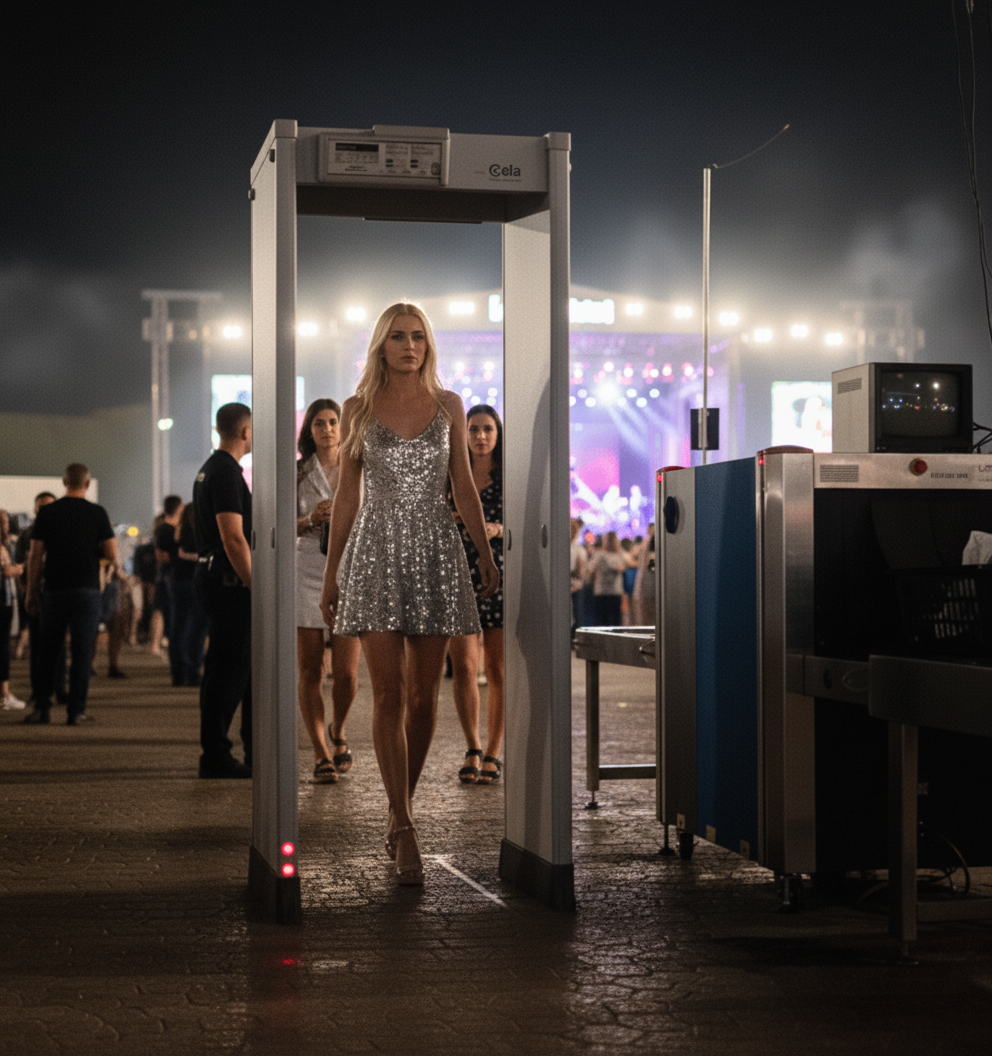
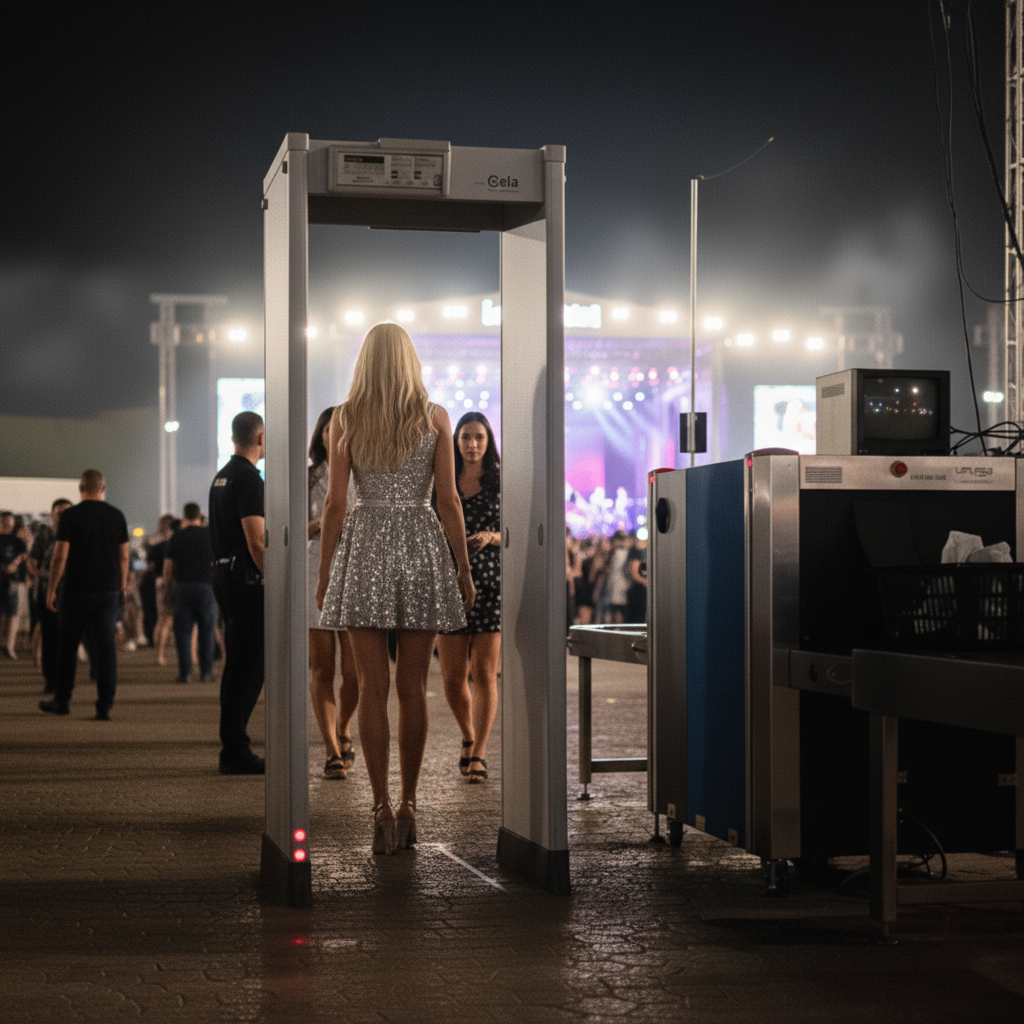
nove slike sa indexom

diff --git a/index.html b/index.html
@@ -344,7 +344,7 @@
           <!-- RIGHT: Image -->
           <div class="col-lg-6">
             <div class="text-center text-lg-end">
-              <img src="https://znz.hu/wp-content/uploads/2015/12/11_CEIA-HHMDs_Application_vagott_kisebb.jpg"
+              <img src="assets/images/iznajmljivanje-prodaja-za-aerodrom-metal-detektorska-vrata.png"
                 alt="Workflow illustration" class="img-fluid rounded shadow-sm">
             </div>
           </div>
